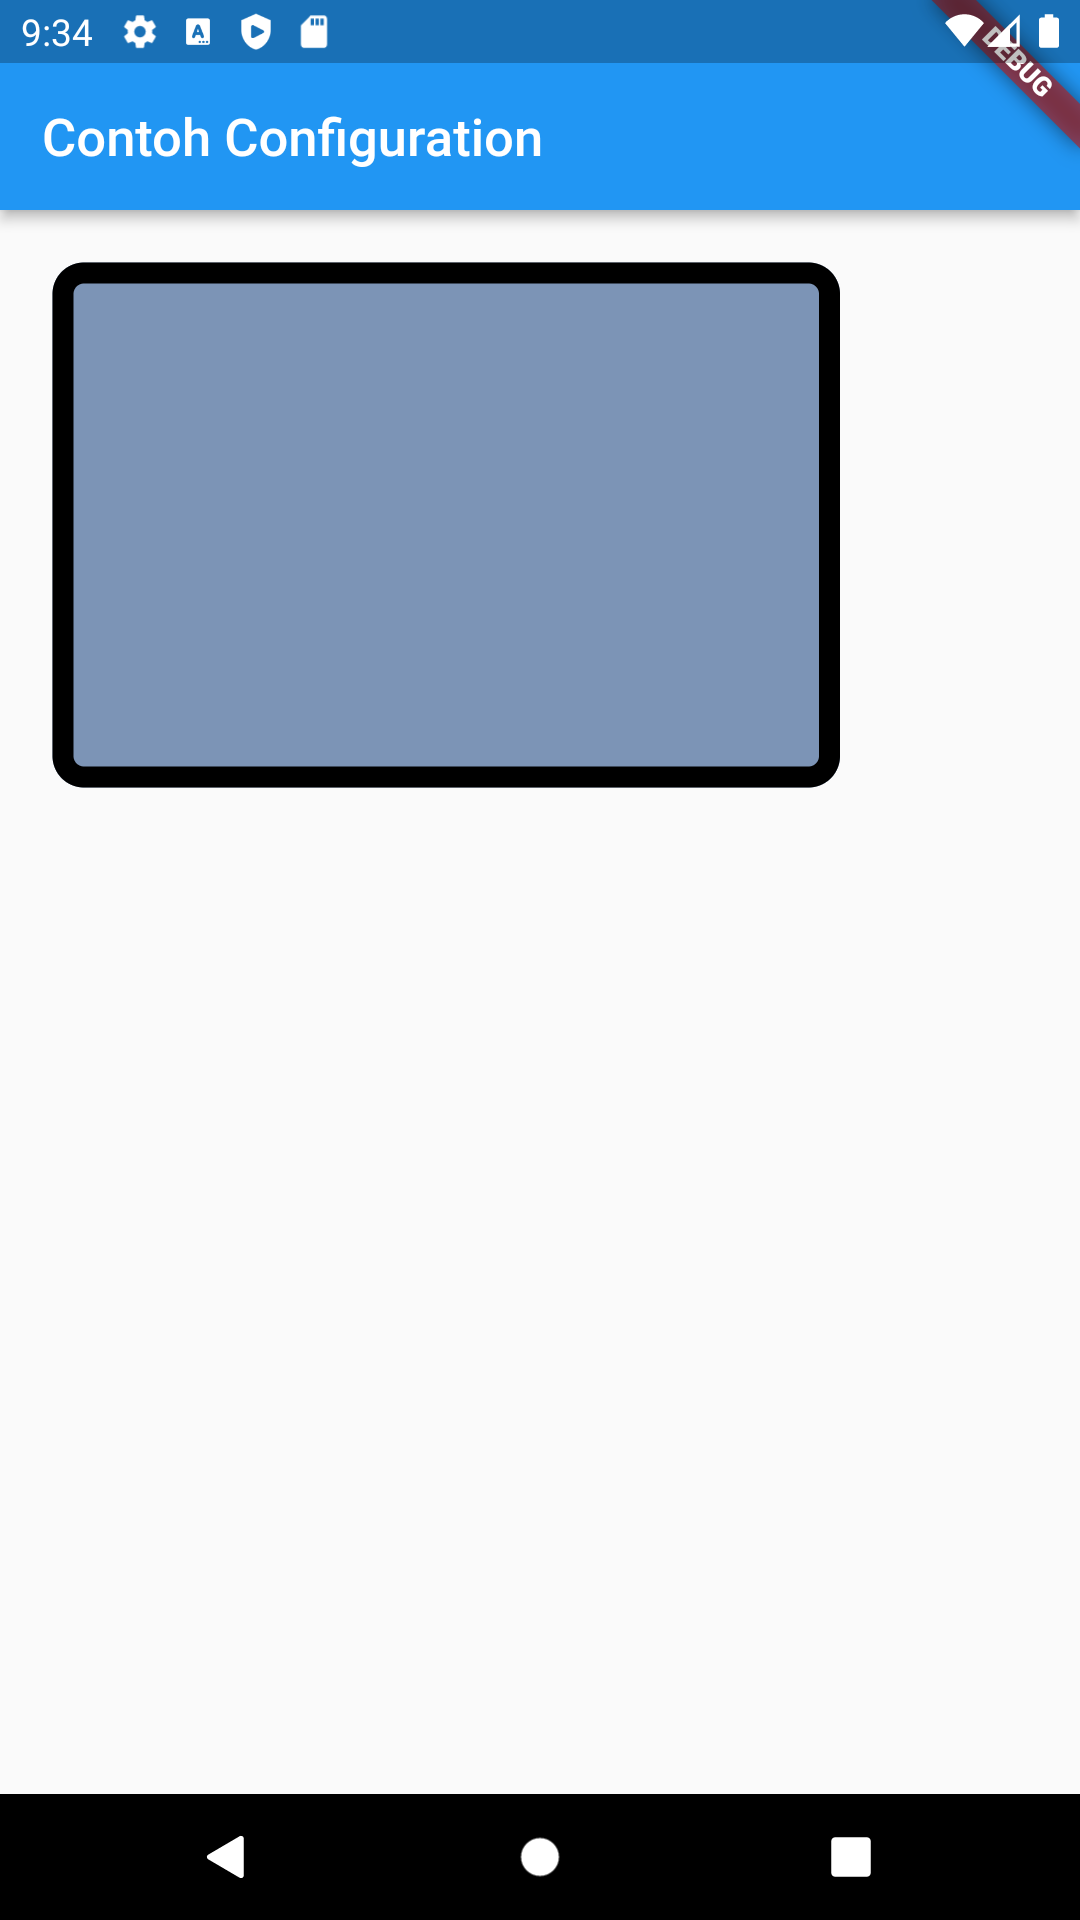
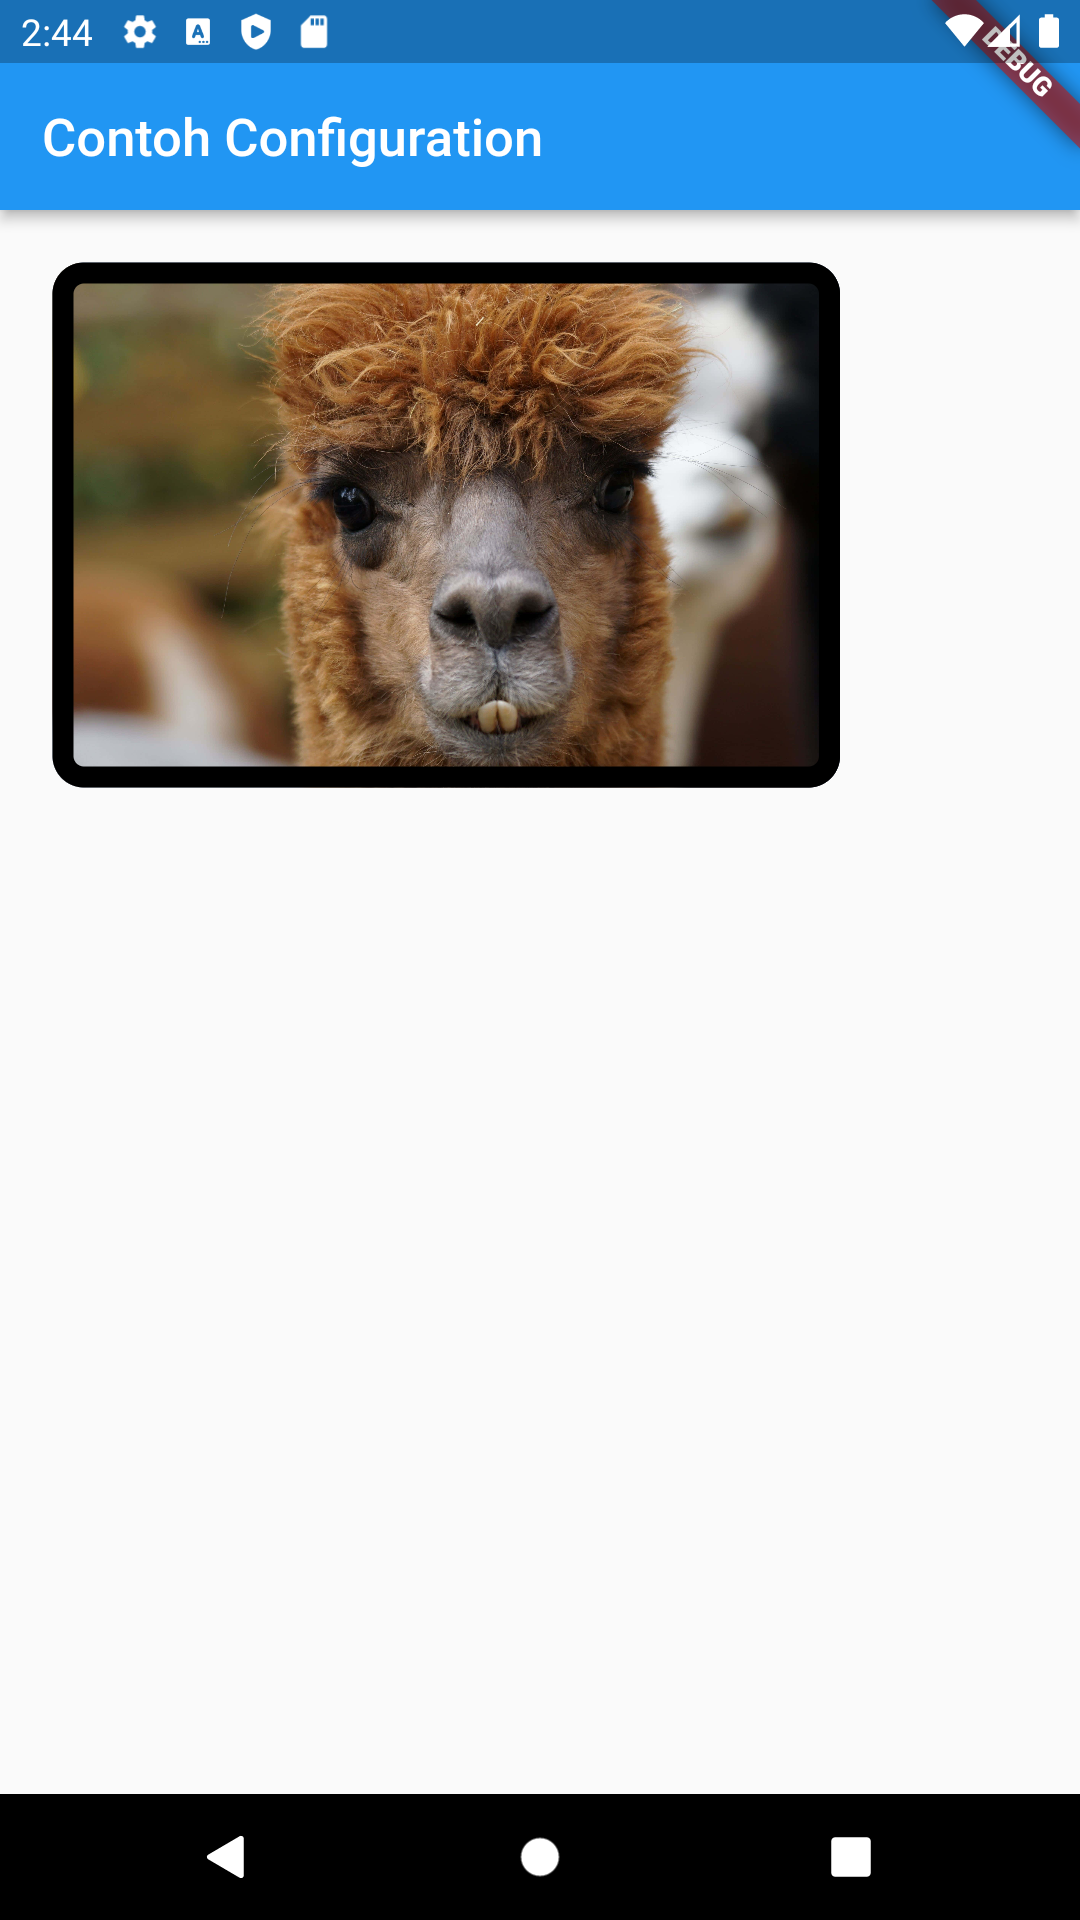
Update Images

Changed region(s): [[0.0611, 0.125, 0.7639, 0.4062], [0.0306, 0.0, 0.0611, 0.0312]]

diff --git a/Pertemuan 2/praktikum2_niken/lib/main.dart b/Pertemuan 2/praktikum2_niken/lib/main.dart
@@ -418,7 +418,7 @@ class MyApp extends StatelessWidget {
   }
 } */
 
-// Container G. Property Transform
+/* Container G. Property Transform
 import 'package:flutter/material.dart';
 
 void main() => runApp(MyApp());
@@ -432,8 +432,7 @@ class MyApp extends StatelessWidget {
           body: Container(
             decoration: BoxDecoration(
               image: const DecorationImage(
-                image: NetworkImage(
-                    'https://pixnio.com/free-images/2017/03/07/2017-03-07-10-59-39-900x600.jpg'),
+                image: AssetImage('assets/kerbau.jpg'),
                 fit: BoxFit.fitWidth,
               ),
               border: Border.all(
@@ -448,7 +447,7 @@ class MyApp extends StatelessWidget {
           )),
     );
   }
-} 
+} */
 
 /* Container H. Property Decoration
 import 'package:flutter/material.dart';
@@ -465,8 +464,7 @@ class MyApp extends StatelessWidget {
               decoration: BoxDecoration(
                 color: const Color(0xff7c94b6),
                 image: const DecorationImage(
-                  image: NetworkImage(
-                      'https://pixnio.com/free-images/2018/12/02/2018-12-02-19-17-12.jpg'),
+                  image: AssetImage('assets/alpaca.jpg'),
                   fit: BoxFit.fitWidth,
                 ),
                 border: Border.all(
@@ -480,7 +478,7 @@ class MyApp extends StatelessWidget {
               margin: EdgeInsets.all(20))),
     );
   }
-} */
+} 
 //END CONTAINER*/
 
 // COLUMN AND ROW
